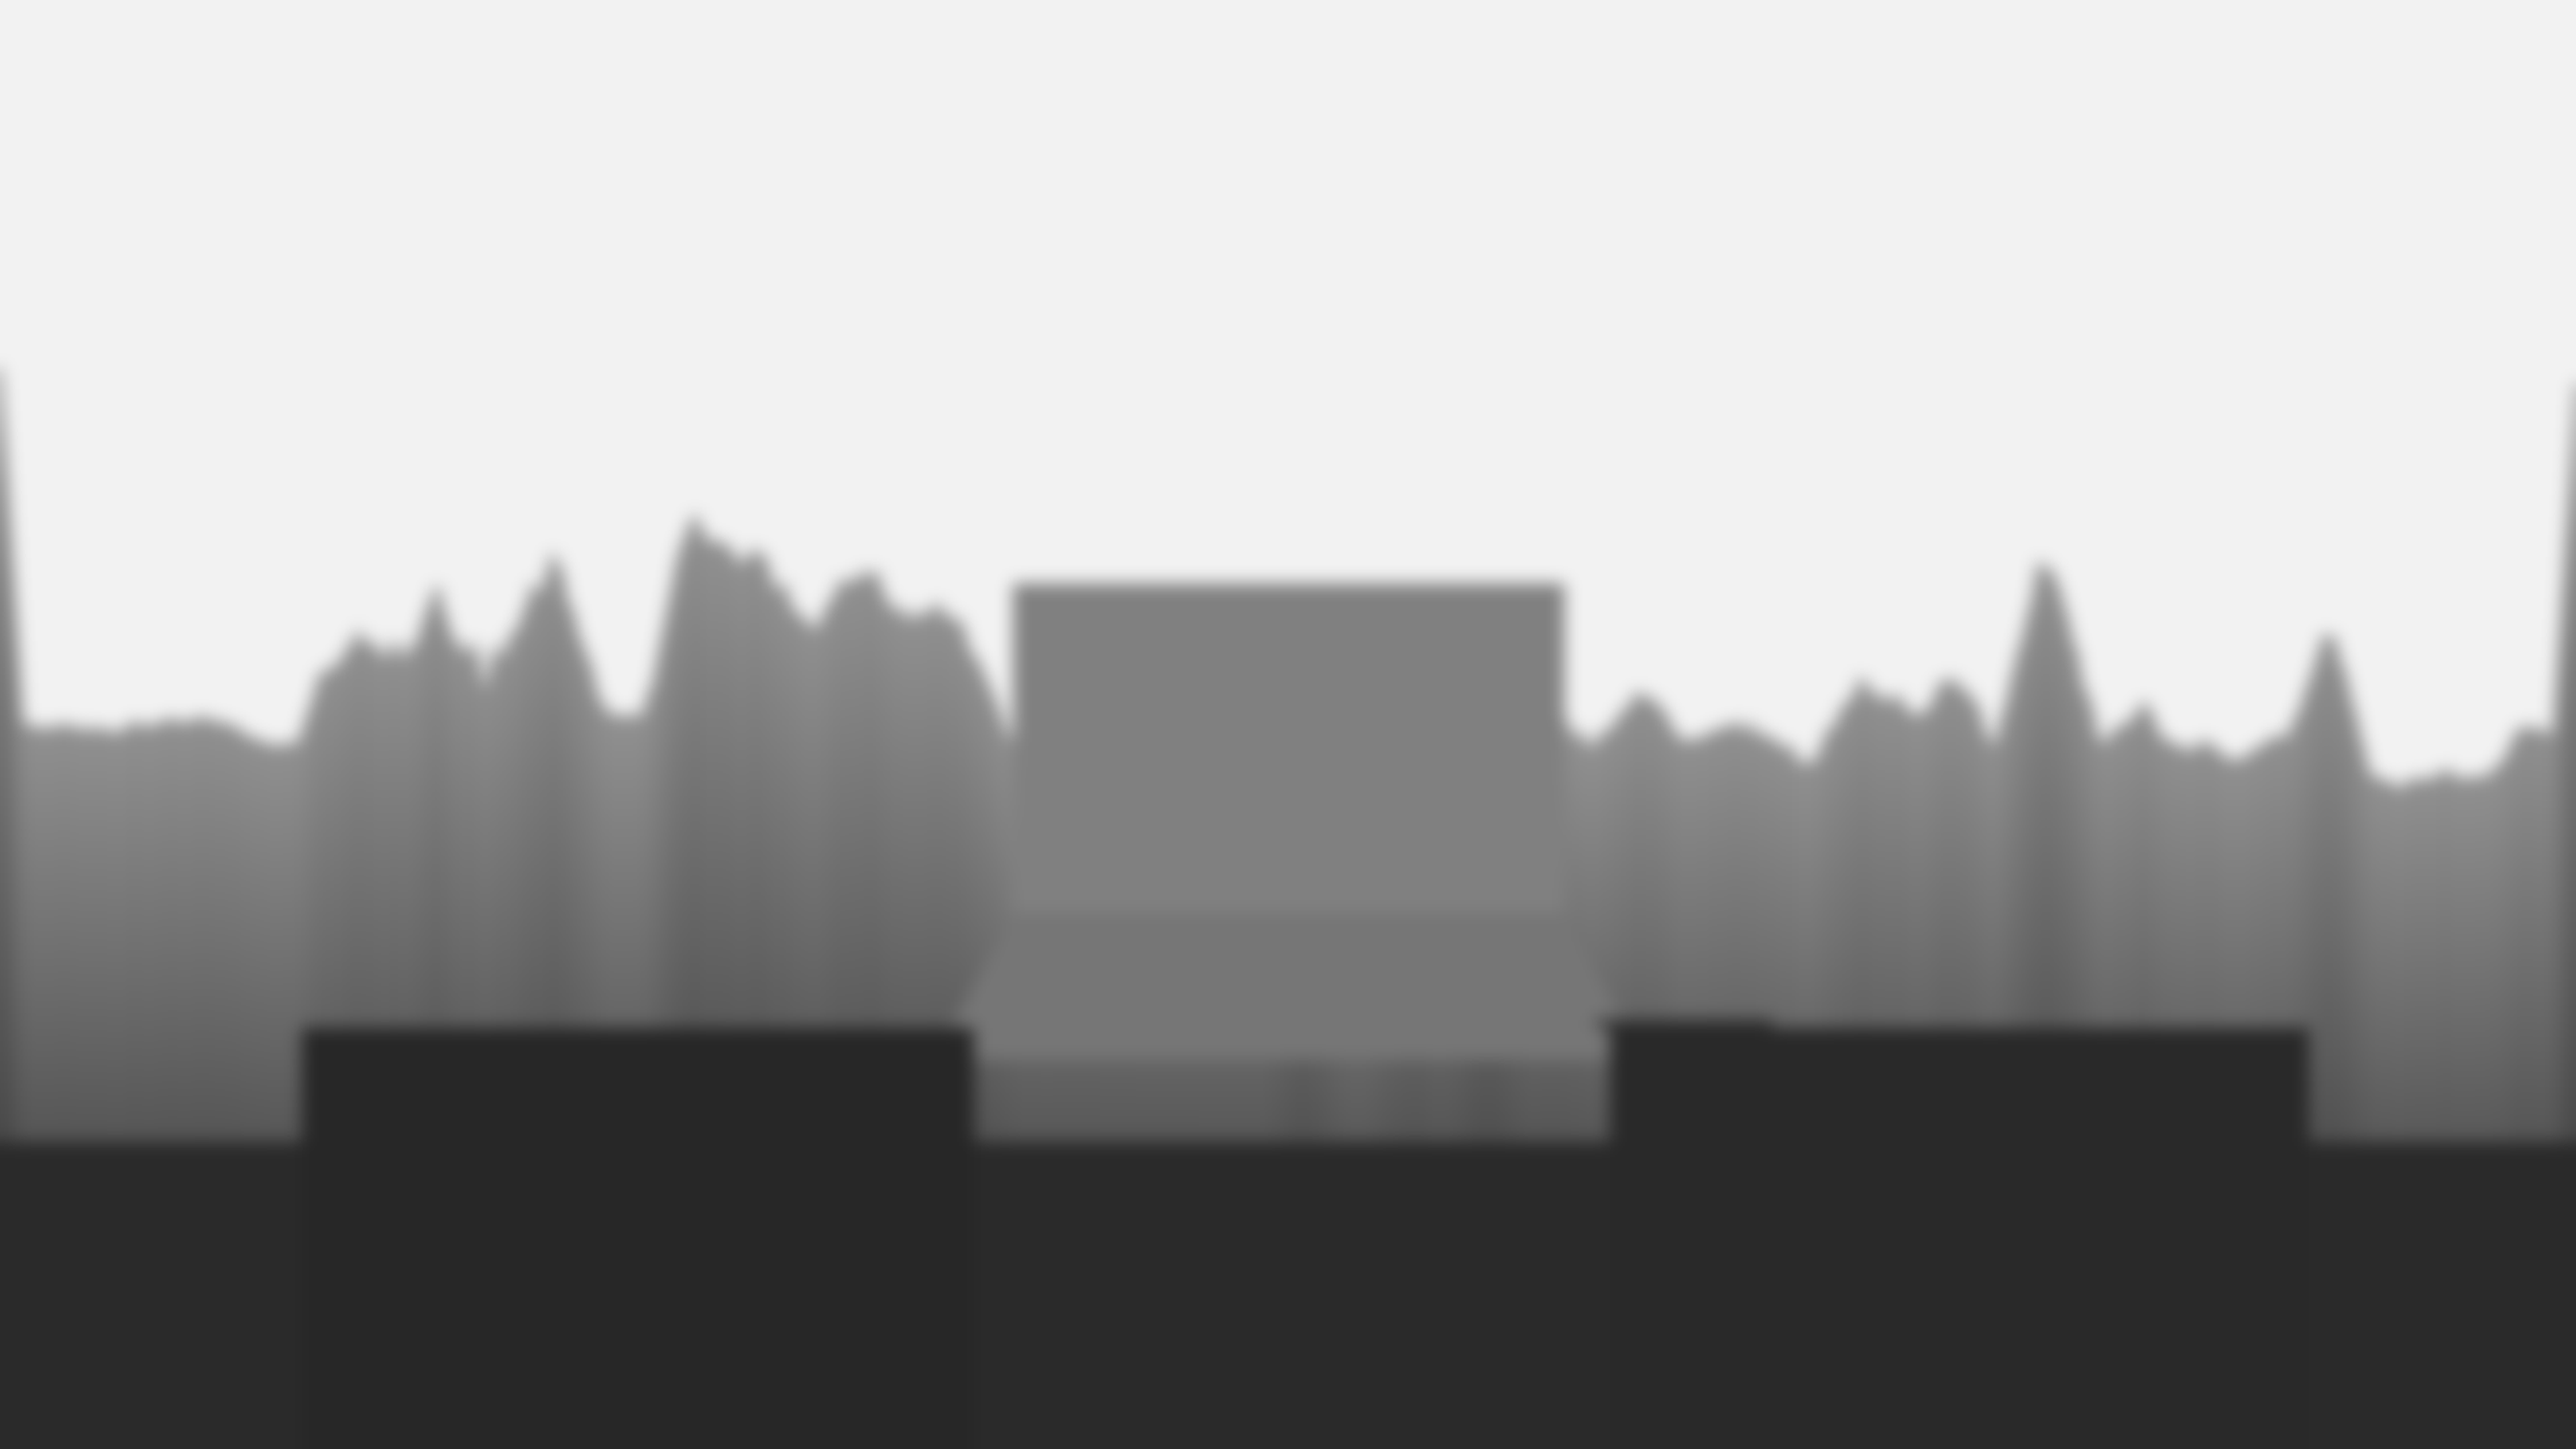
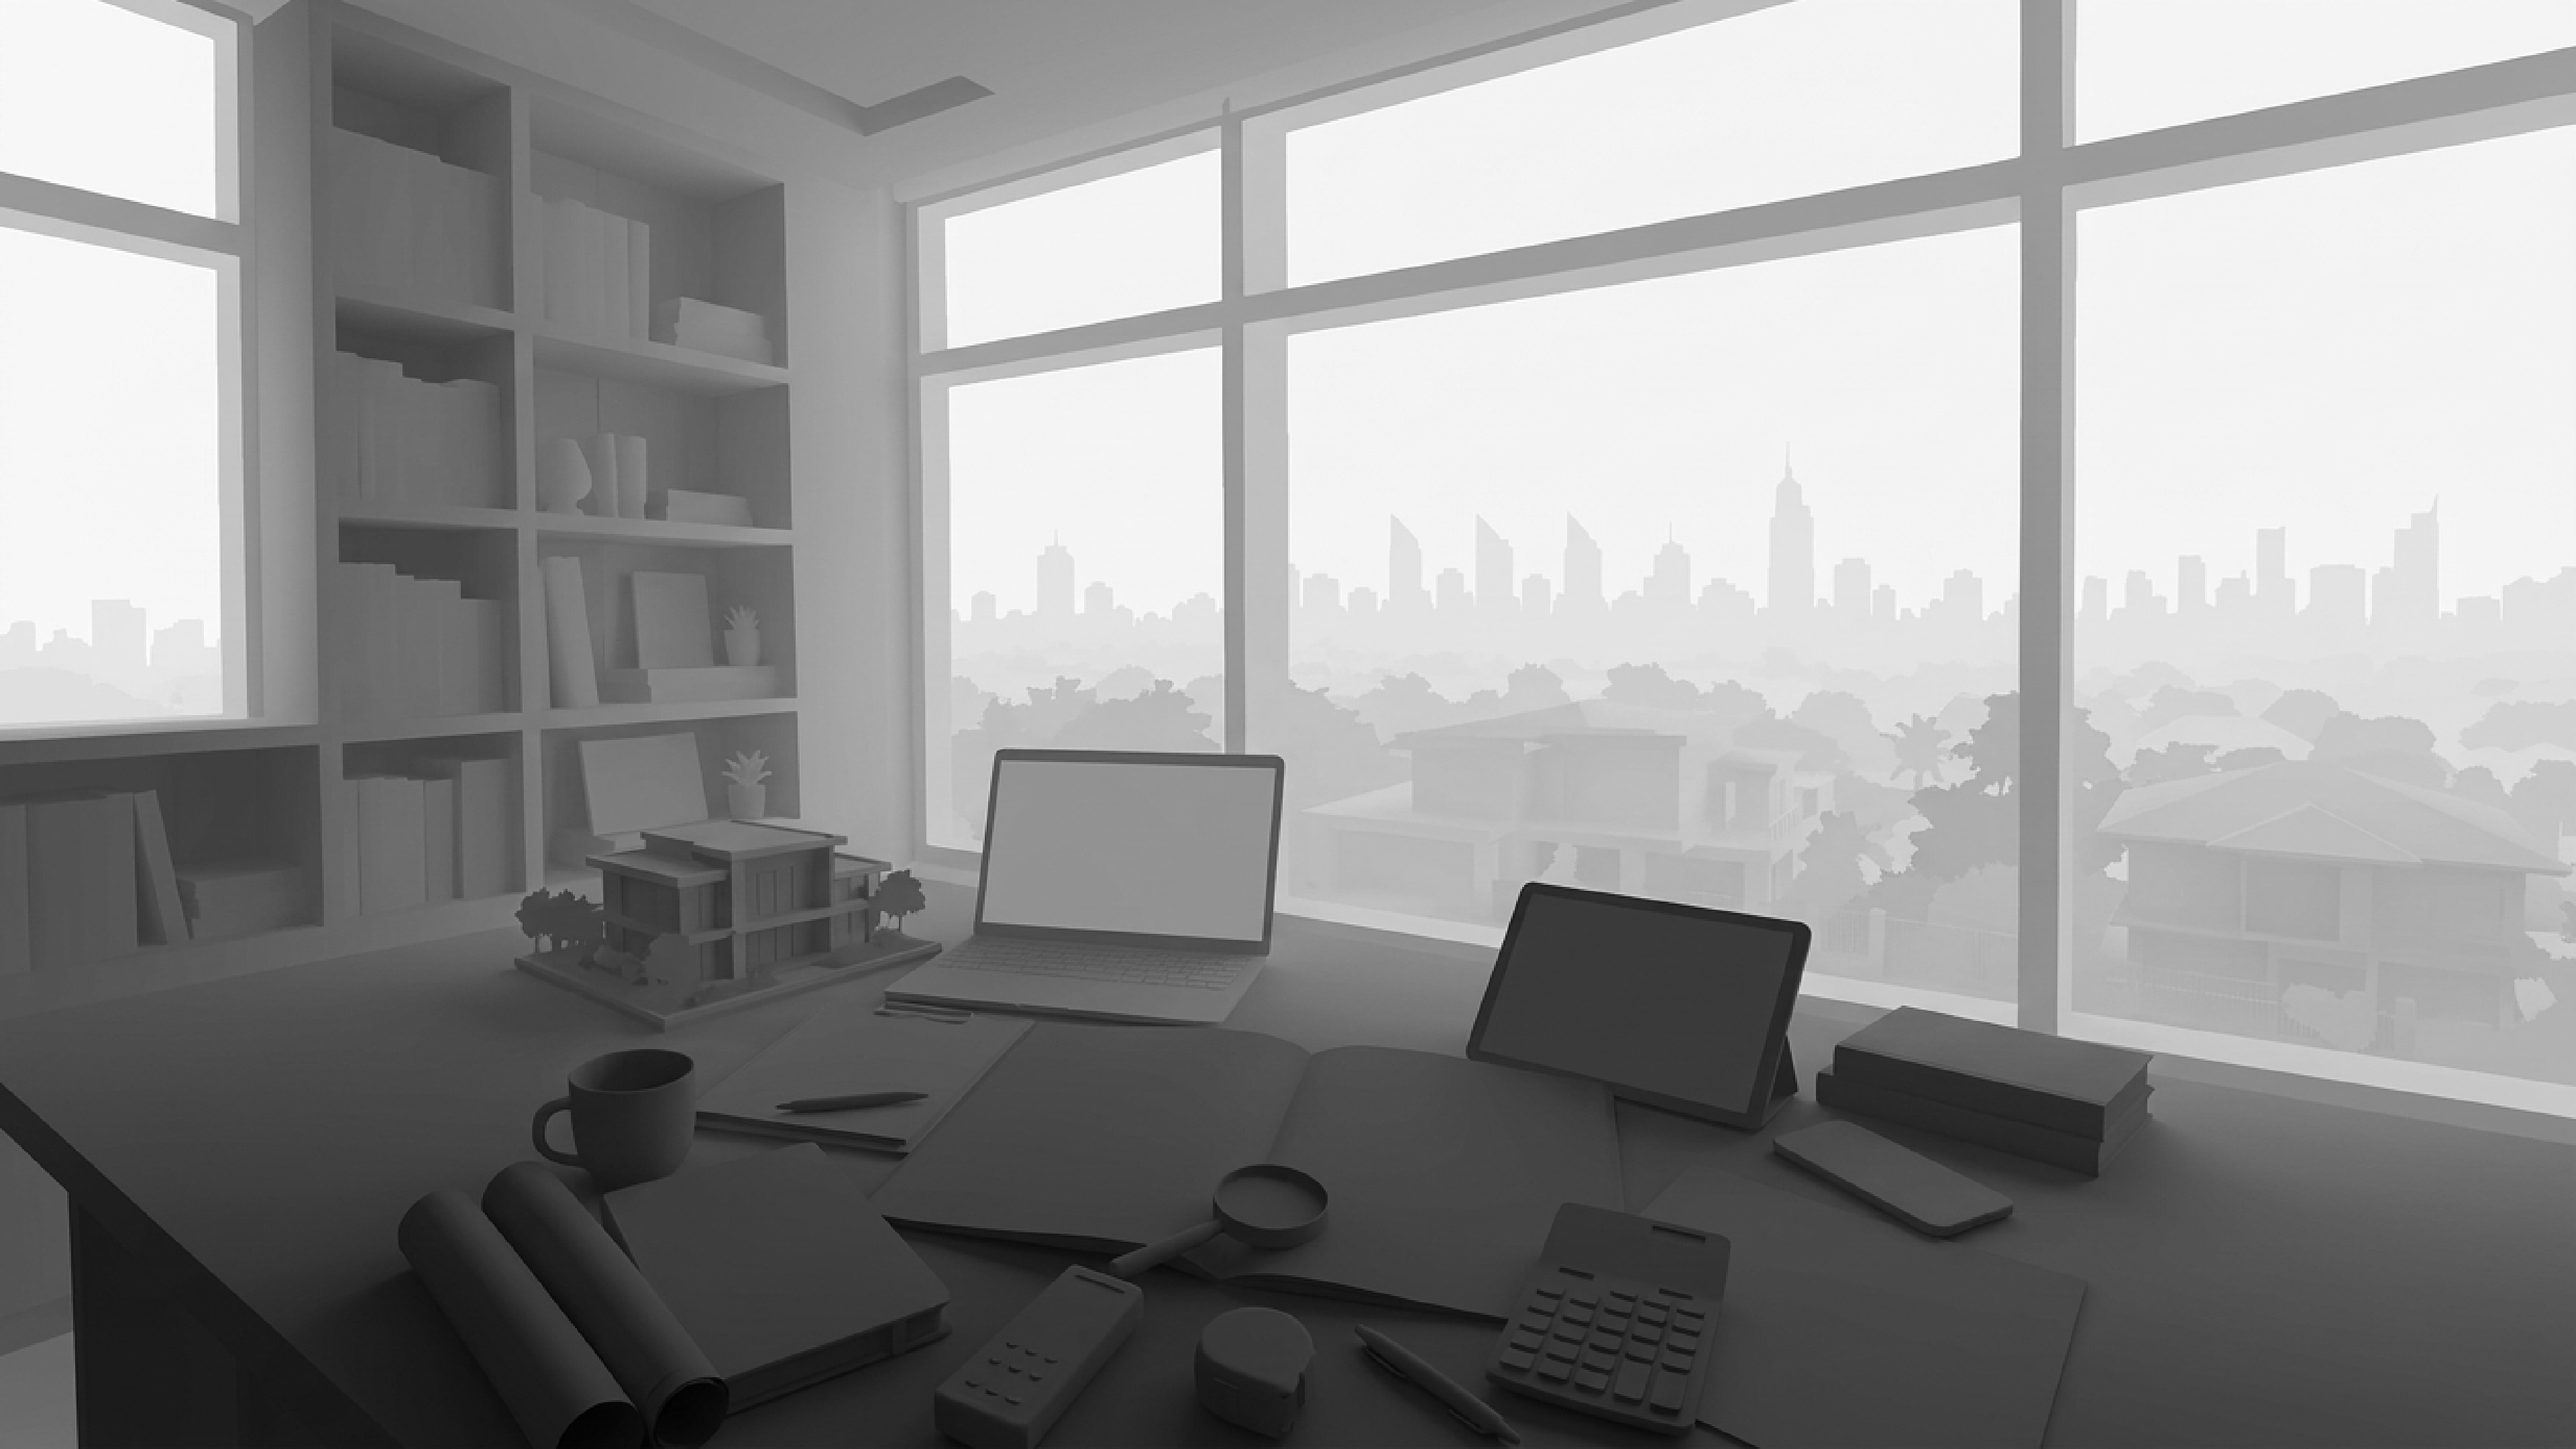
fix(depth): integrate real-scene aligned 4K depth map and bump asset cache to v6

diff --git a/src/main.js b/src/main.js
@@ -122,8 +122,8 @@ class App {
         this.preloader.updateStatus('Cargando escena 4K Ultra HD...');
       }
 
-      const sceneUrl = getAssetUrl('scenes/skyline-workstation-4k.jpg?v=ai-expanded-v5');
-      const depthUrl = getAssetUrl('scenes/skyline-workstation-depth.png?v=ai-expanded-v5');
+      const sceneUrl = getAssetUrl('scenes/skyline-workstation-4k.jpg?v=ai-expanded-v6');
+      const depthUrl = getAssetUrl('scenes/skyline-workstation-depth.png?v=ai-expanded-v6');
 
       if (this.renderer) {
         await this.renderer.loadTexture(sceneUrl, false);
